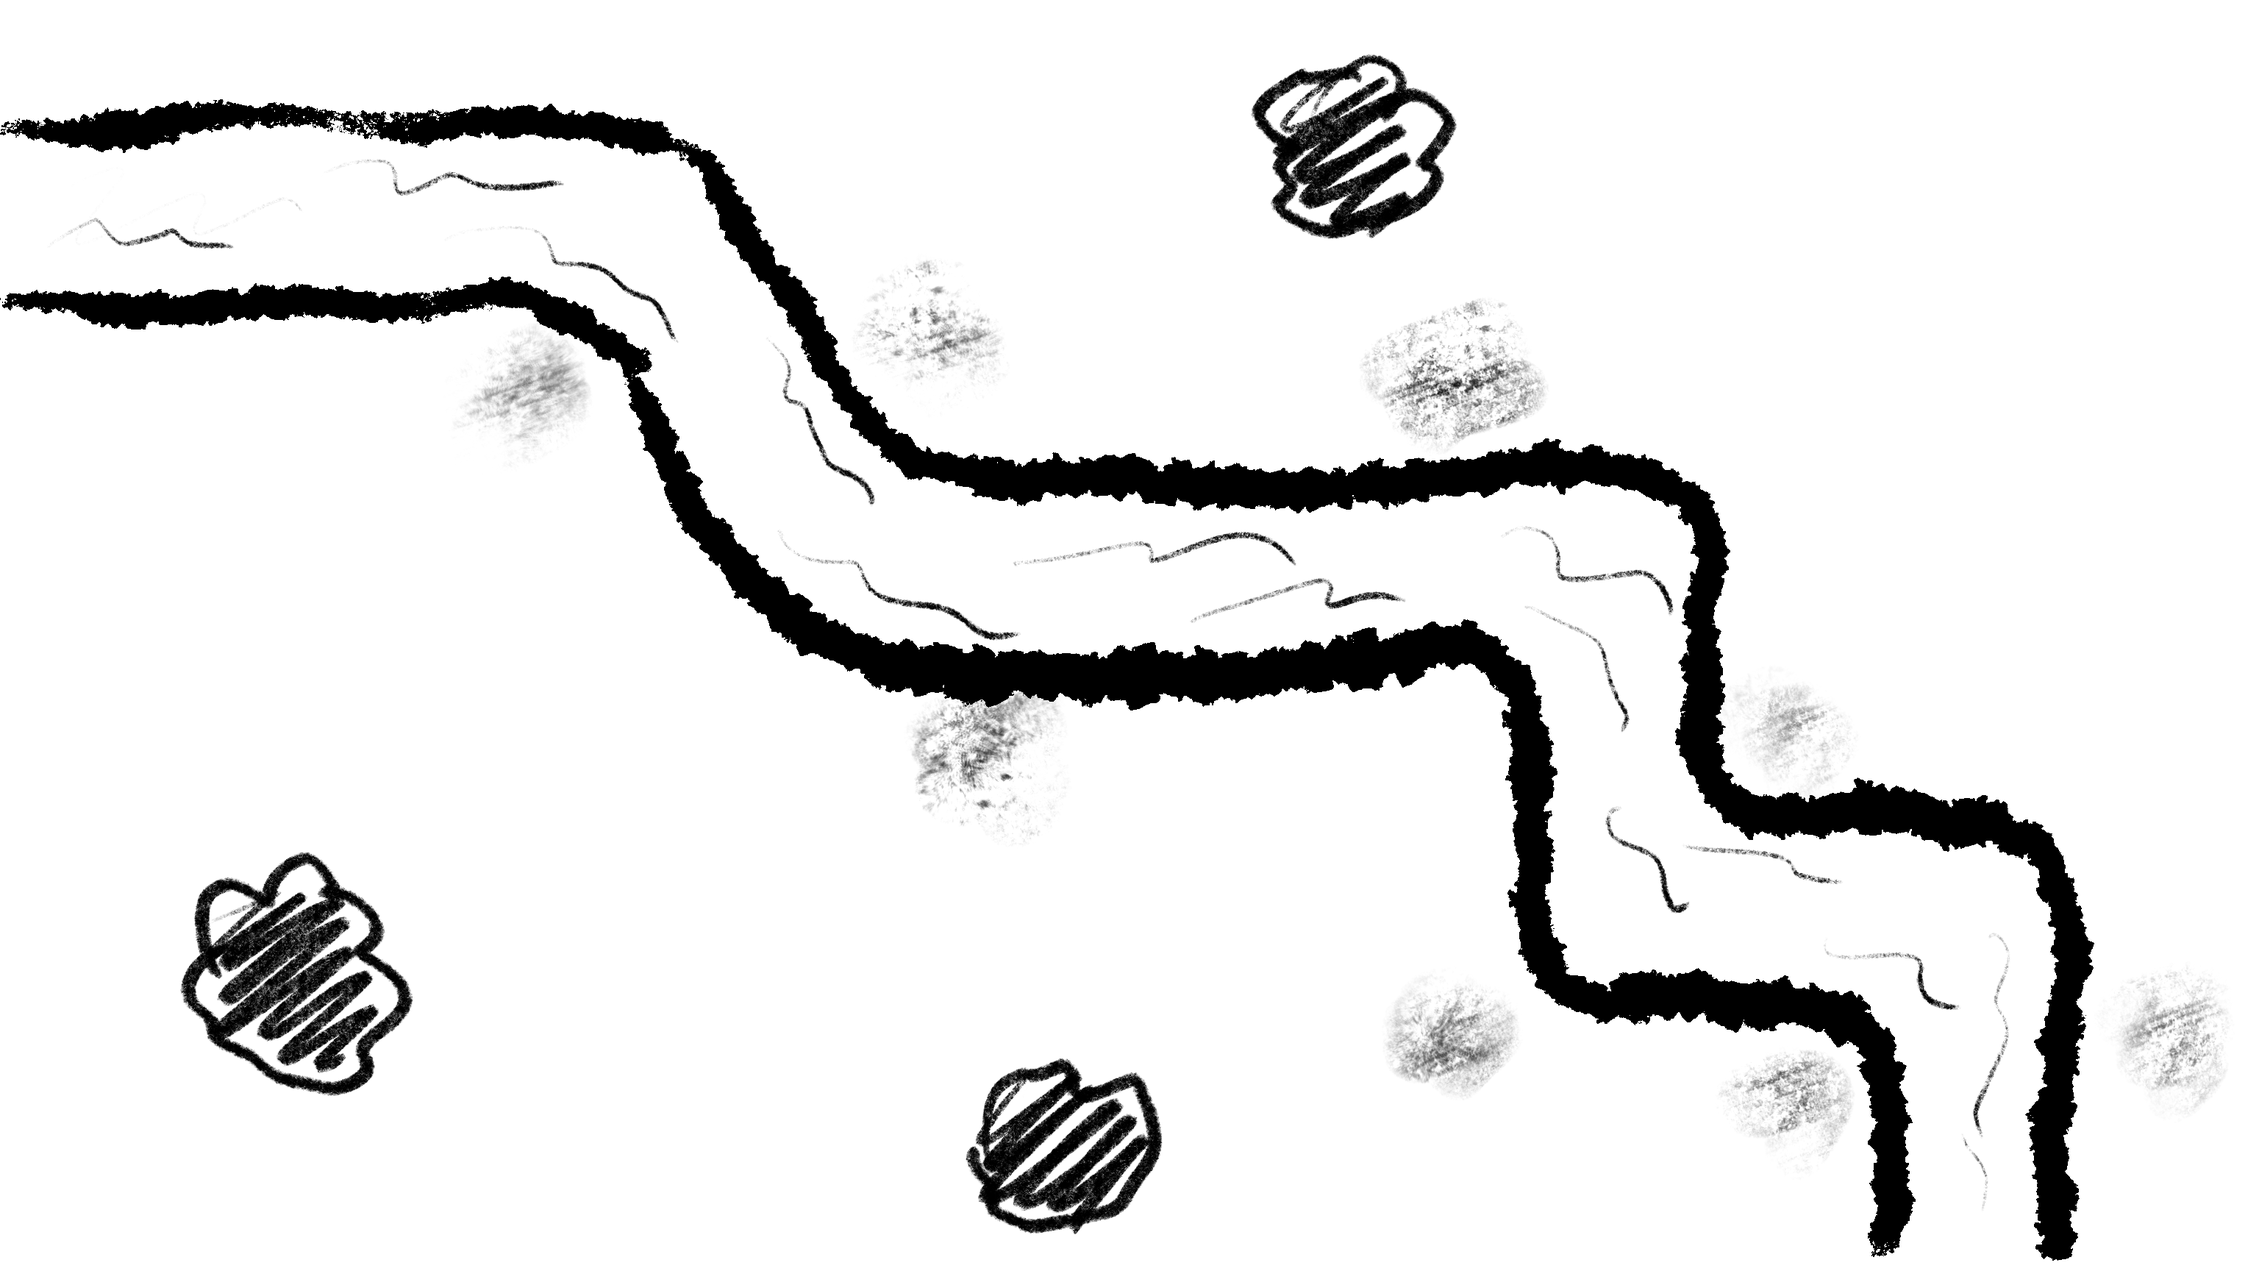
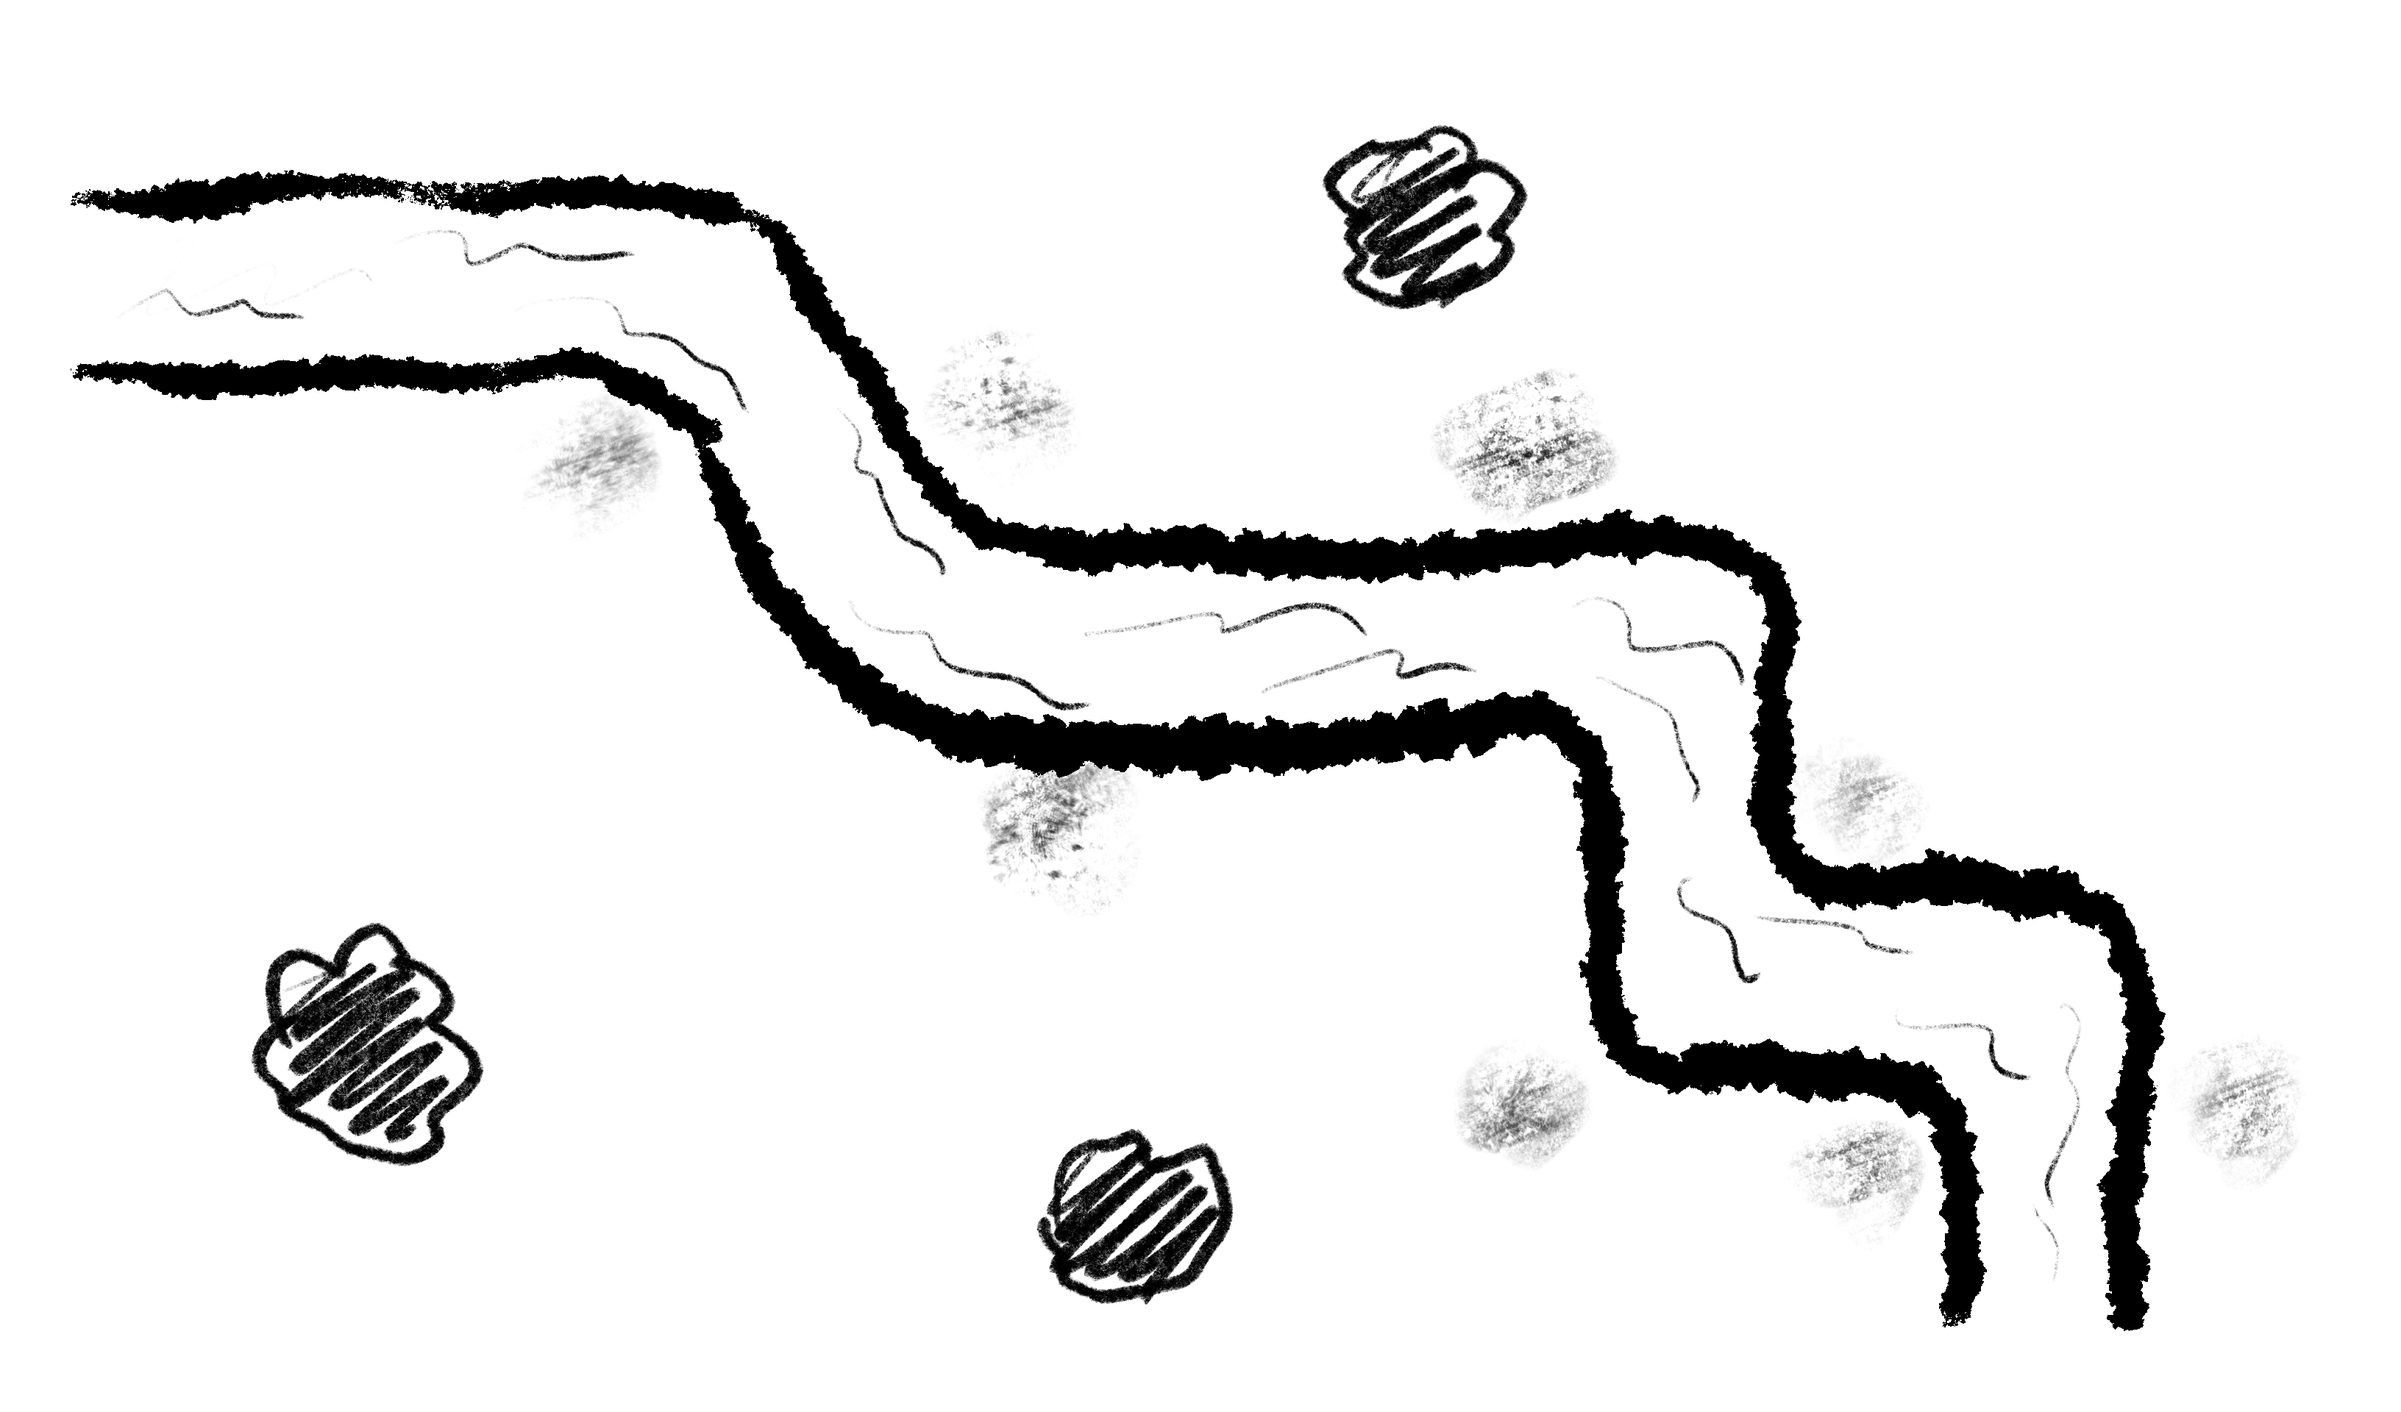
feat(art): map bleed, map template v2, value hierarchy
The map now carries one tile of paper around the playfield, so a 16:10
screen shows no bars; `map` pads an old 16:9 drawing. The map canvas is
4 px per world unit with a line-weight legend and true-size outlines of
MTB, destroyer, monitor and a turret, because the sheet's brush sizes
made the first banks eight times too heavy.

docs/ART.md: value hierarchy (sprite ink > water tone > banks > land),
painted water, splash from above, the lineup check.

diff --git a/tools/art_fit.py b/tools/art_fit.py
@@ -24,7 +24,11 @@ ASSETS = os.path.join(ROOT, "assets")
 
 TILE = 48.0
 MAP_TILES = (32, 18)
-MAP_PX = (3072, 1728)
+# Paper around the playfield, in tiles: a 16:10 screen sees one more tile top and bottom.
+BLEED = 1
+# Map canvas pixels per world unit, and the game's copy (WebGL caps textures near 4096 px).
+MAP_DRAW_SCALE = 4
+MAP_GAME_SCALE = 2
 RIVER_HALF = 0.9 * TILE
 SPOT_RADIUS = 0.5 * TILE
 BUNKER_SIDE = 1.6 * TILE
@@ -209,58 +213,108 @@ def slice_sheet(sheet_png):
     check()
 
 
+def map_px(scale):
+    """Canvas size with bleed at `scale` pixels per world unit."""
+    return tuple(round((n + 2 * BLEED) * TILE * scale) for n in MAP_TILES)
+
+
+def at(t, x, y):
+    """Play-area tile coordinates to canvas pixels on a bleed canvas with `t` px per tile."""
+    return (x + BLEED) * t, (y + BLEED) * t
+
+
 def river_strokes(t, colour):
     """One round-capped line per segment: a wide polyline on a transparent canvas draws phantom chords."""
     draws = ["-fill", "none", "-stroke", colour, "-strokewidth", f"{2 * RIVER_HALF / TILE * t:.0f}"]
     for (x1, y1), (x2, y2) in zip(CENTRELINE, CENTRELINE[1:]):
-        draws += ["-draw", f"stroke-linecap round line {x1 * t:.0f},{y1 * t:.0f} {x2 * t:.0f},{y2 * t:.0f}"]
+        (ax, ay), (bx, by) = at(t, x1, y1), at(t, x2, y2)
+        draws += ["-draw", f"stroke-linecap round line {ax:.0f},{ay:.0f} {bx:.0f},{by:.0f}"]
     return draws
 
 
-def geometry_draws(t):
-    path = " ".join(f"{x * t:.0f},{y * t:.0f}" for x, y in CENTRELINE)
-    draws = river_strokes(t, "rgba(40,120,220,0.35)") + [
+def geometry_draws(t, band):
+    path = " ".join("{:.0f},{:.0f}".format(*at(t, x, y)) for x, y in CENTRELINE)
+    draws = river_strokes(t, band) + [
         "-stroke", "rgba(220,60,40,0.9)", "-strokewidth", "3", "-draw", f"polyline {path}"]
     for x, y in BUILD_SPOTS:
-        draws += ["-draw", f"circle {x * t:.0f},{y * t:.0f} {x * t + SPOT_RADIUS / TILE * t:.0f},{y * t:.0f}"]
-    bx, by = CENTRELINE[-1]
+        cx, cy = at(t, x, y)
+        draws += ["-draw", f"circle {cx:.0f},{cy:.0f} {cx + SPOT_RADIUS / TILE * t:.0f},{cy:.0f}"]
+    bx, by = at(t, *CENTRELINE[-1])
     half = BUNKER_SIDE / TILE * t / 2
-    draws += ["-draw", f"rectangle {bx * t - half:.0f},{by * t - half:.0f} {bx * t + half:.0f},{by * t + half:.0f}"]
+    draws += ["-draw", f"rectangle {bx - half:.0f},{by - half:.0f} {bx + half:.0f},{by + half:.0f}"]
+    x0, y0 = at(t, 0, 0)
+    x1, y1 = at(t, *MAP_TILES)
+    draws += ["-stroke", "rgba(60,140,220,0.8)", "-strokewidth", "2",
+              "-draw", f"rectangle {x0:.0f},{y0:.0f} {x1:.0f},{y1:.0f}"]
+    return draws
+
+
+def scale_references(t):
+    """Legend and true-size outlines in the free land at the bottom left of the playfield."""
+    u = t / TILE
+    x, y = at(t, 1, 12.2)
+    draws = ["-fill", "none", "-stroke", "black"]
+    for i, (weight, label) in enumerate(((OUTLINE, "bank, at most"), (DETAIL, "flow, grass, detail"))):
+        ly = y + i * 0.9 * t
+        draws += ["-strokewidth", f"{weight * u:.1f}", "-draw", f"line {x:.0f},{ly:.0f} {x + 2 * t:.0f},{ly:.0f}"]
+        draws += ["-stroke", "none", "-fill", "rgba(60,140,220,1)", "-pointsize", f"{0.35 * t:.0f}", *font_args(),
+                  "-draw", f"text {x + 2.2 * t:.0f},{ly + 0.12 * t:.0f} '{label}'", "-fill", "none", "-stroke", "black"]
+    shapes = [("MTB", 29), ("destroyer", 58), ("monitor", 72)]
+    sx, sy = x, y + 2.2 * t
+    draws += ["-stroke", "rgba(60,140,220,1)", "-strokewidth", "2"]
+    for name, length in shapes:
+        w, h = length * HULL_BEAM_RATIO * u, length * u
+        draws += ["-draw", f"roundrectangle {sx:.0f},{sy:.0f} {sx + w:.0f},{sy + h:.0f} {w / 2:.0f},{w / 2:.0f}"]
+        sx += w + 0.5 * t
+    turret = 43.2 * u
+    draws += ["-draw", f"rectangle {sx:.0f},{sy:.0f} {sx + turret:.0f},{sy + turret:.0f}"]
+    sx += turret + 0.5 * t
+    draws += ["-draw", f"circle {sx + 0.5 * t:.0f},{sy + 0.5 * t:.0f} {sx + t:.0f},{sy + 0.5 * t:.0f}"]
+    draws += ["-stroke", "none", "-fill", "rgba(60,140,220,1)", "-pointsize", f"{0.3 * t:.0f}", *font_args(),
+              "-draw", f"text {x:.0f},{sy - 0.15 * t:.0f} 'true size: MTB, destroyer, monitor, turret; a tree at most one tile'"]
     return draws
 
 
 def map_template(out):
-    t = MAP_PX[0] / MAP_TILES[0]
+    w, h = map_px(MAP_DRAW_SCALE)
+    t = TILE * MAP_DRAW_SCALE
     grid = []
-    for i in range(MAP_TILES[0] + 1):
-        grid += ["-draw", f"line {i * t:.0f},0 {i * t:.0f},{MAP_PX[1]}"]
-    for i in range(MAP_TILES[1] + 1):
-        grid += ["-draw", f"line 0,{i * t:.0f} {MAP_PX[0]},{i * t:.0f}"]
-    magick("-size", f"{MAP_PX[0]}x{MAP_PX[1]}", "xc:white", "-stroke", "rgba(0,0,0,0.08)",
-           "-strokewidth", "1", *grid, *geometry_draws(t), out)
-    print(f"{out}  {MAP_PX[0]}x{MAP_PX[1]}: water in the blue band, circles and square stay bare")
+    for i in range(MAP_TILES[0] + 2 * BLEED + 1):
+        grid += ["-draw", f"line {i * t:.0f},0 {i * t:.0f},{h}"]
+    for i in range(MAP_TILES[1] + 2 * BLEED + 1):
+        grid += ["-draw", f"line 0,{i * t:.0f} {w},{i * t:.0f}"]
+    magick("-size", f"{w}x{h}", "xc:white", "-stroke", "rgba(0,0,0,0.08)", "-strokewidth", "1",
+           *grid, *geometry_draws(t, "#bcd6f3"), *scale_references(t), out)
+    print(f"{out}  {w}x{h}: water in the blue band, circles and square stay bare, "
+          f"the blue frame is a 16:9 screen")
 
 
 def map_mask(out):
-    t = MAP_PX[0] / MAP_TILES[0]
-    magick("-size", f"{MAP_PX[0]}x{MAP_PX[1]}", "xc:none", *river_strokes(t, "white"), out)
-    print(f"{out}  {MAP_PX[0]}x{MAP_PX[1]}: white is water, the rest is land")
+    w, h = map_px(MAP_DRAW_SCALE)
+    magick("-size", f"{w}x{h}", "xc:none", *river_strokes(TILE * MAP_DRAW_SCALE, "white"), out)
+    print(f"{out}  {w}x{h}: white is water, the rest is land")
 
 
 def map_in(drawn):
+    """Takes a bleed canvas, or an old 16:9 map that gets paper around it."""
     w, h = size_of(drawn)
-    if abs(w / h - MAP_PX[0] / MAP_PX[1]) > 0.01:
-        sys.exit(f"{drawn} is {w}x{h}, not 16:9; draw on the template's canvas")
+    gw, gh = map_px(MAP_GAME_SCALE)
     out = os.path.join(ASSETS, "map", "background.png")
-    os.makedirs(os.path.dirname(out), exist_ok=True)
-    magick(drawn, "-alpha", "off", "-resize", f"{MAP_PX[0]}x{MAP_PX[1]}!", out)
+    if abs(w / h - gw / gh) < 0.01:
+        magick(drawn, "-alpha", "off", "-resize", f"{gw}x{gh}!", out)
+    elif abs(w / h - MAP_TILES[0] / MAP_TILES[1]) < 0.01:
+        pw, ph = (round(n * TILE * MAP_GAME_SCALE) for n in MAP_TILES)
+        magick(drawn, "-alpha", "off", "-resize", f"{pw}x{ph}!", "-background", "white",
+               "-gravity", "center", "-extent", f"{gw}x{gh}", out)
+    else:
+        sys.exit(f"{drawn} is {w}x{h}; draw on the canvas from map-template")
     print("wrote map/background.png")
     check()
 
 
 def overlay(map_png, out):
     w, _ = size_of(map_png)
-    magick(map_png, *geometry_draws(w / MAP_TILES[0]), out)
+    magick(map_png, *geometry_draws(w / (MAP_TILES[0] + 2 * BLEED), "rgba(40,120,220,0.3)"), out)
     print(f"{out}: water should fill the blue band, circles should sit on land")
 
 

diff --git a/src/game/art.rs b/src/game/art.rs
@@ -8,8 +8,8 @@ use std::collections::HashMap;
 use bevy::prelude::*;
 
 use crate::balance::{
-    BoatModel, EnemyKind, TowerKind, BUILD_SPOT_RADIUS, MAP_HEIGHT_TILES, MAP_WIDTH_TILES,
-    TILE_SIZE, TOWER_TIERS,
+    BoatModel, EnemyKind, TowerKind, BUILD_SPOT_RADIUS, MAP_BLEED_TILES, MAP_HEIGHT_TILES,
+    MAP_WIDTH_TILES, TILE_SIZE, TOWER_TIERS,
 };
 use crate::game::destruction::{Crater, Debris};
 use crate::game::enemy::EnemyType;
@@ -258,7 +258,7 @@ fn show_spots(
     }
 }
 
-/// The painted map covers the whole world under everything; the greybox river hides.
+/// The painted map covers the world plus its bleed under everything; the greybox river hides.
 fn lay_background(art: Res<Art>, mut commands: Commands) {
     let Some(image) = art.image("map/background.png") else {
         return;
@@ -268,10 +268,9 @@ fn lay_background(art: Res<Art>, mut commands: Commands) {
         DespawnOnExit(Screen::Gameplay),
         Sprite {
             image,
-            custom_size: Some(Vec2::new(
-                MAP_WIDTH_TILES * TILE_SIZE,
-                MAP_HEIGHT_TILES * TILE_SIZE,
-            )),
+            custom_size: Some(
+                (Vec2::new(MAP_WIDTH_TILES, MAP_HEIGHT_TILES) + 2.0 * MAP_BLEED_TILES) * TILE_SIZE,
+            ),
             ..default()
         },
         Transform::from_translation(Vec3::new(0.0, 0.0, -1.0)),

diff --git a/src/balance.rs b/src/balance.rs
@@ -4,6 +4,8 @@ pub const TILE_SIZE: f32 = 48.0;
 /// The world is a fixed 16:9 map; the camera scales to fit it.
 pub const MAP_WIDTH_TILES: f32 = 32.0;
 pub const MAP_HEIGHT_TILES: f32 = 18.0;
+/// Paper drawn around the playfield on each side, for screens wider or taller than 16:9.
+pub const MAP_BLEED_TILES: f32 = 1.0;
 pub const RIVER_HALF_WIDTH: f32 = 0.9 * TILE_SIZE;
 /// Click and draw radius of a build spot.
 pub const BUILD_SPOT_RADIUS: f32 = 0.5 * TILE_SIZE;

diff --git a/docs/ART.md b/docs/ART.md
@@ -30,11 +30,12 @@ Each rule exists because breaking it is the usual way hand-drawn game art ends u
    distance; shape does not.
 6. **Red belongs to the player.** Boat, emplacements, torpedoes and the bunker carry the one red;
    enemies stay black and grey. The cheapest readability there is.
-7. **Contrast hierarchy.** The map is light and quiet, the water quietest of all: ships move on it.
-   Sprites carry the strongest contrast on screen: heavy outline, hulls hatched or filled dark. A
-   paper-white hull on a paper map reads only by its edge. If the map competes, the map changes.
+7. **Value hierarchy, darkest first: sprite ink > water tone > banks > land.** Sprites are white
+   paper cutouts with black ink, so they need a toned ground to stand on: the water is a flat,
+   calm wash, clearly darker than paper and clearly lighter than ink. Banks are grey pencil, never
+   solid black. Land stays near white. If the map competes with the ships, the map changes.
 8. **Draw in full contrast, never pre-tinted.** The game tints at runtime: submerged boat
-   blue-grey, hits flash red, wrecks dark.
+   blue-grey, hits flash red, sinking wrecks grey.
 9. **Leave the inside empty or draw it.** The script fills everything inside the outline with paper,
    so a closed outline is enough; draw only what should show on top.
 10. **Squint test for every sprite:** zoom Procreate out until the cell is the size of the game
@@ -43,7 +44,8 @@ Each rule exists because breaking it is the usual way hand-drawn game art ends u
 ## Files and sizes
 
 World units, 1 tile = 48. "On screen" is at 1920x1080 (1.25 px per unit); at 1280x800 multiply by
-two thirds. The script exports at 4 px per unit.
+two thirds. The script exports at 3 px per unit: a Retina MacBook shows about 2.3, and linear
+filtering stays clean up to about 2x reduction.
 
 | File | World (w x h) | On screen | Notes |
 |---|---|---|---|
@@ -59,12 +61,12 @@ two thirds. The script exports at 4 px per unit.
 | `sprites/turrets/{flak,gun88,heavy15}_{0,1,2}.png` | 36 / 43 / 50 square | 45 / 54 / 63 | flak tier 2 two barrels, 88 tier 2 twin, 15 cm one, two, three barrels |
 | `sprites/bunker.png` | 77 square | 96 | |
 | `sprites/spot.png` | 48 square | 60 | flat: a pencil circle, "build here" |
-| `sprites/splash.png` | 48 square | scaled per use | flat, centred |
+| `sprites/splash.png` | 48 square | scaled per use | flat, centred, seen from above: a ring burst, not a fountain from the side |
 | `sprites/crater.png` | 22 square | scaled per use | flat |
 | `sprites/debris_0..5.png` | 14, 6, 7, 8, 9, 10 square | ~1.6x | turret, funnel, lifeboat, crate, anchor, hatch |
 | `sprites/torpedo.png` | 5 x 14 | 6 x 18 | flat: runs under water |
 | `sprites/shell.png` | 4 x 4 | 5 | flat |
-| `map/background.png` | 1536 x 864 | the window | 3072 x 1728 px |
+| `map/background.png` | 1632 x 960 with bleed | the window | drawn 6528 x 3840, stored 3264 x 1920 |
 | `fonts/pencil.ttf` | | | an OFL handwriting font, e.g. Patrick Hand or Kalam |
 
 The ship sizes live in `src/balance.rs` (`EnemyKind::stats`, `UBOAT_*`, `TOWER_SIZE`,
@@ -104,24 +106,44 @@ python3 tools/art_fit.py map-template art/guides/map_template.png
 python3 tools/art_fit.py map-mask art/guides/map_mask.png
 ```
 
-1. Import the template as a canvas (3072 x 1728). The blue band is the water exactly as the
-   code has it, the circles are build spots, the square is the bunker. Lock it.
+The canvas is 6528 x 3840: 4 px per world unit, the 32 x 18 tile playfield plus one tile of
+bleed on every side (the blue frame is the edge of a 16:9 screen; a 16:10 MacBook sees the bleed
+top and bottom, so draw paper and land there too). It is 4 px per unit, the sheet is 16: the
+legend in the bottom-left corner shows the line weights at this scale. Use it, not the brush
+sizes from the sheet.
+
+1. Import the template as a canvas. The blue band is the water exactly as the code has it, the
+   circles are build spots, the square is the bunker. Lock it.
 2. Actions, Add, Insert a file: the mask. It lands on the band; lock it.
-3. A `water` layer above the mask, set to Clipping Mask: whatever you paint there stays inside the
-   river. Banks go on a layer above everything, drawn along the band's edge; they may bulge
-   outward, never inward.
-4. Leave the circles and the square bare: spot and bunker are sprites.
-5. Hide template and mask, export PNG as `art/drawn/map.png`, then check it:
+3. A `water` layer above the mask, set to Clipping Mask: fill it with one flat, calm tone
+   (grey-blue, around 25 % darkness) and a few light flow marks. Nothing busy on the water:
+   ships live there.
+4. Banks on a layer above, along the band's edge, grey pencil at most as heavy as the legend's
+   bank line. They may bulge outward, never inward.
+5. Land: near-white paper, sparse detail. Nothing bigger than the true-size corvette outline in
+   the legend corner; a tree is one tile at most. Leave the circles and the square bare: spot
+   and bunker are sprites.
+6. Hide template and mask, export PNG as `art/drawn/map.png`, then:
 
 ```bash
 python3 tools/art_fit.py map art/drawn/map.png
 python3 tools/art_fit.py overlay assets/map/background.png /tmp/overlay.png
+cargo run --example lineup -- full
 ```
+
+`map` also takes an old 16:9 map without bleed and pads it with paper.
+
+## Checking a change
+
+`cargo run --example lineup -- full` (or `-- 1280 800`) lays every ship, boat and emplacement
+tier on the real map with the notes filled and the radial menu open, then saves
+`target/lineup/<size>.png` and `-overlay.png` and quits. Look at the 1280 x 800 one first: that is
+the M8 kill criterion.
 
 ## What the script does to a sprite
 
 Cut the cell, fill the inside of the outline with paper (`#f7f5ef`), add a cut edge of 1 unit
-(less on small debris) and a soft shadow half a unit down-right, scale to 4 px per unit, write
+(less on small debris) and a soft shadow half a unit down-right, scale to 3 px per unit, write
 `assets/<file>`, update `assets/manifest.txt`. The web build cannot look at the disk and loads
 exactly the files in that manifest. Flat sprites (spot, splash, crater, torpedo, shell) are only
 cut and scaled.
